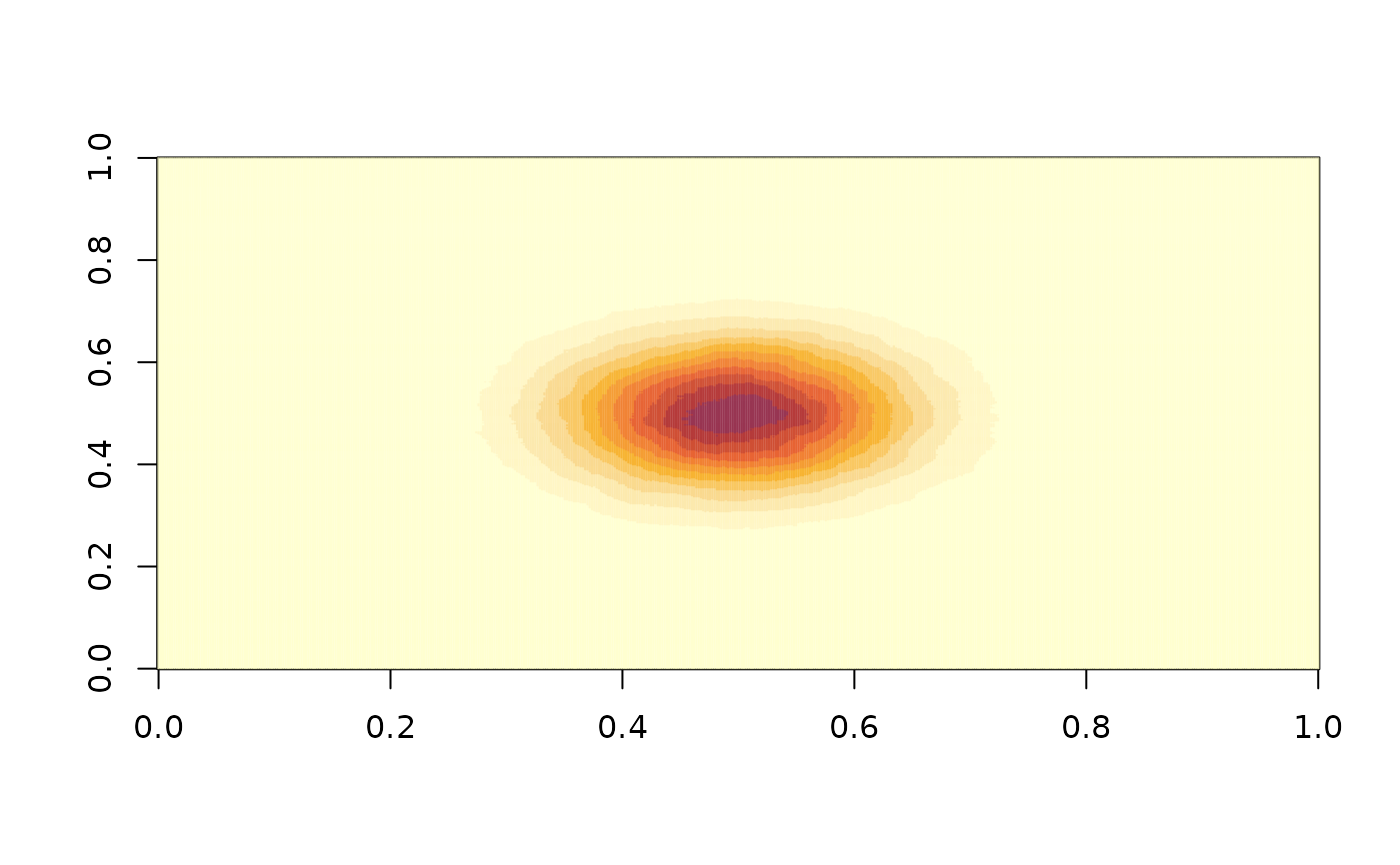
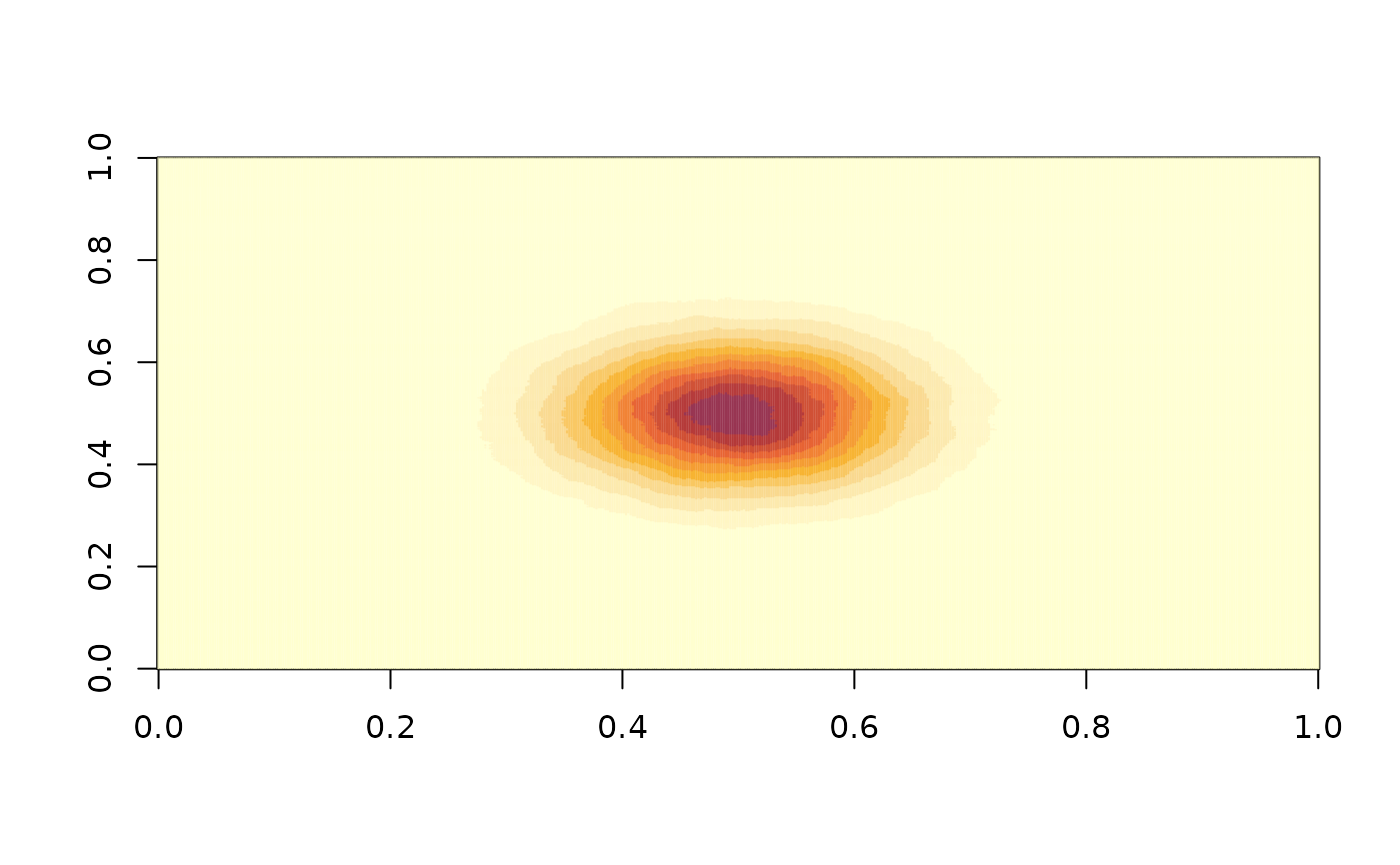
Built site for scattermore2: 0.0.0.9000@808b271

Changed region(s): [[0.3993, 0.4058, 0.6757, 0.5931], [0.4914, 0.3746, 0.5836, 0.4058], [0.4914, 0.437, 0.5221, 0.4682]]

diff --git a/articles/histogram.html b/articles/histogram.html
@@ -102,7 +102,7 @@
 <span class="fu"><a href="https://rdrr.io/r/graphics/image.html" class="external-link">image</a></span><span class="op">(</span><span class="va">blurred_histogram</span><span class="op">)</span></code></pre></div>
 <p><img src="histogram_files/figure-html/unnamed-chunk-3-1.png" width="700"></p>
 <div class="sourceCode" id="cb4"><pre class="downlit sourceCode r">
-<code class="sourceCode R"><span class="va">gauss_blurred_histogram</span> <span class="op">&lt;-</span> <span class="fu"><a href="../reference/apply_kernel_histogram.html">apply_kernel_histogram</a></span><span class="op">(</span><span class="va">histogram</span>, filter<span class="op">=</span><span class="st">"gauss"</span>, kernel_pixels<span class="op">=</span><span class="fl">10</span><span class="op">)</span>
+<code class="sourceCode R"><span class="va">gauss_blurred_histogram</span> <span class="op">&lt;-</span> <span class="fu"><a href="../reference/apply_kernel_histogram.html">apply_kernel_histogram</a></span><span class="op">(</span><span class="va">histogram</span>, filter<span class="op">=</span><span class="st">"gauss"</span><span class="op">)</span>
 <span class="fu"><a href="https://rdrr.io/r/graphics/image.html" class="external-link">image</a></span><span class="op">(</span><span class="va">gauss_blurred_histogram</span><span class="op">)</span></code></pre></div>
 <p><img src="histogram_files/figure-html/unnamed-chunk-3-2.png" width="700"></p>
 </div>

diff --git a/index.html b/index.html
@@ -91,7 +91,7 @@
 <div class="section level3">
 <h3 id="short-description-">Short Description 📝<a class="anchor" aria-label="anchor" href="#short-description-"></a>
 </h3>
-<p>R package with implemented C-based conversion of large scatterplot data to rasters plus other operations such as data blurring or data alpha blending. Speeds up plotting of data with millions of points.</p>
+<p>R package with implemented C-based conversion of large scatterplot data to rasters plus other operations such as data blurring or data alpha blending. Speeds up plotting of data with millions of points. <a href="https://teri934.github.io/scattermore2/" class="external-link">Webpage for overview</a></p>
 </div>
 <div class="section level3">
 <h3 id="simple-usage-">Simple Usage 🖱<a class="anchor" aria-label="anchor" href="#simple-usage-%EF%B8%8F"></a>
